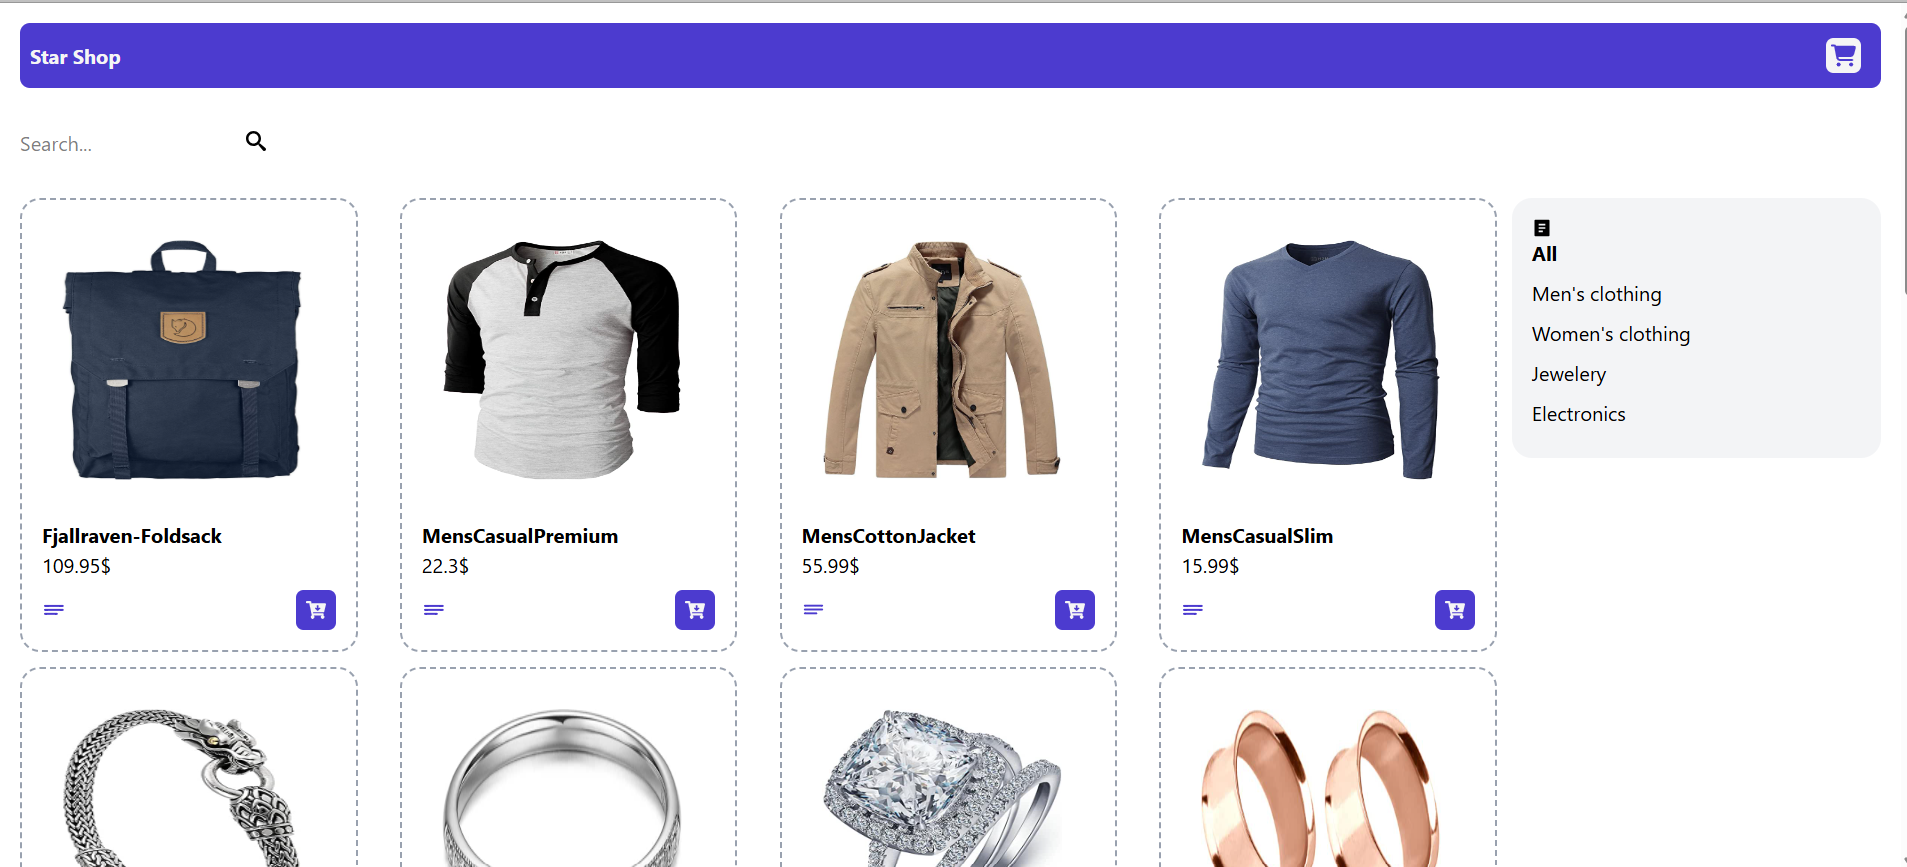
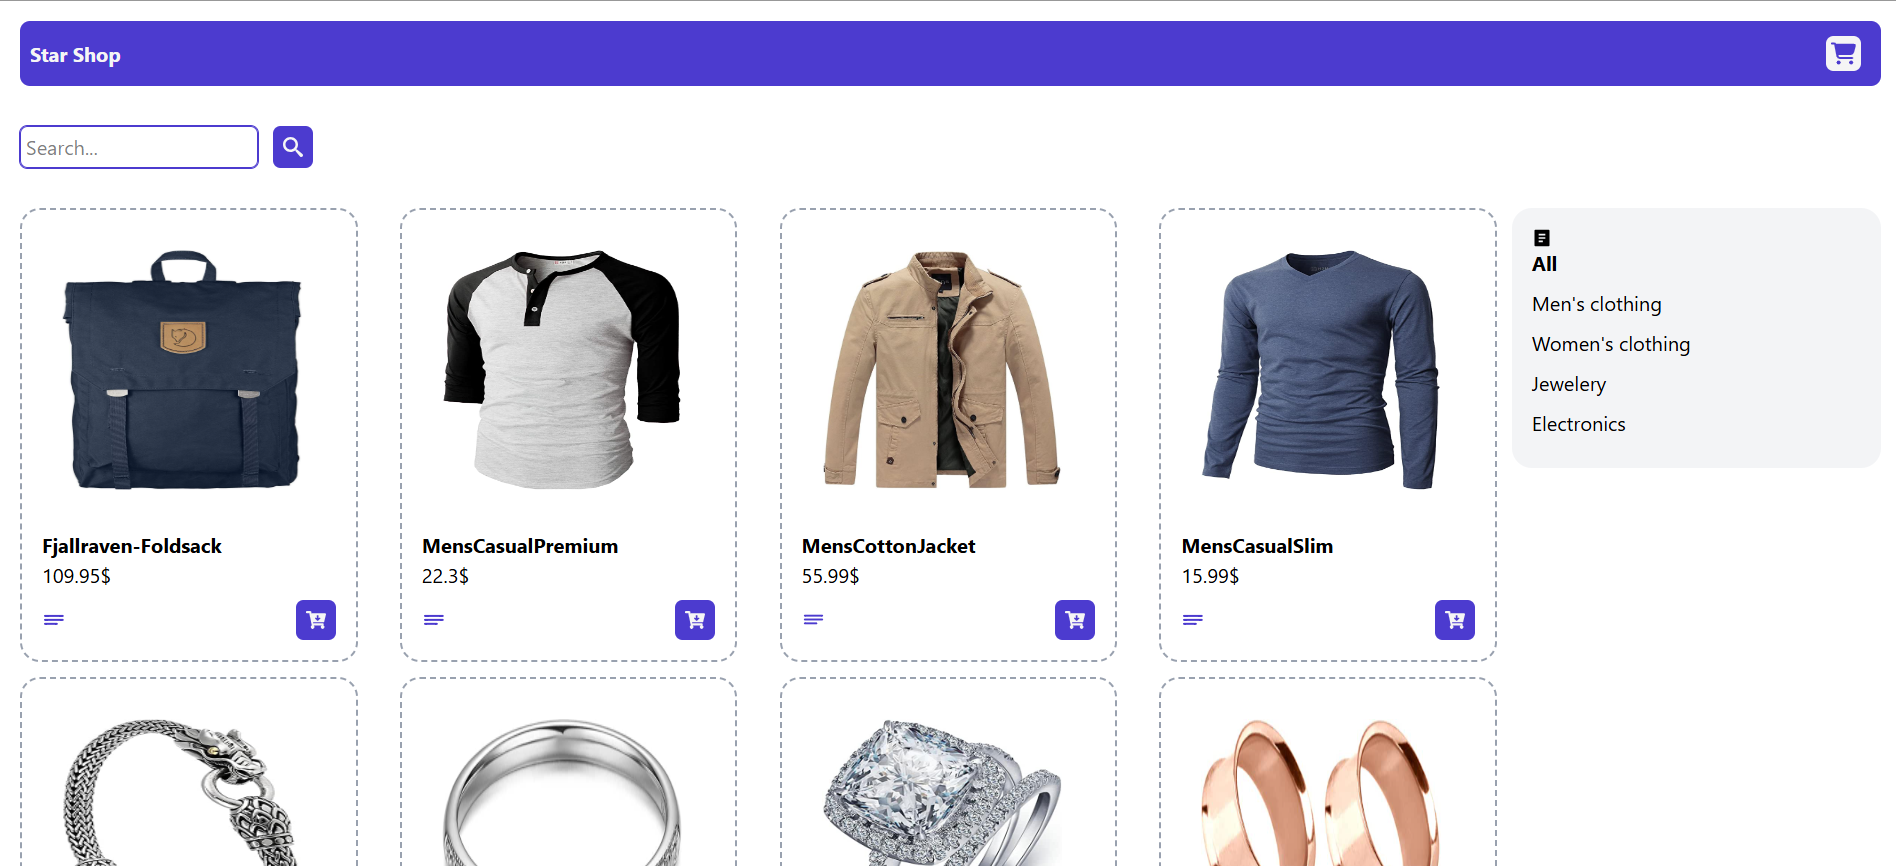
Enhance SearchBox component layout and styling for improved user experience

diff --git a/src/components/Templates/Products/SearchBox.jsx b/src/components/Templates/Products/SearchBox.jsx
@@ -14,17 +14,18 @@ function SearchBox({
   };
 
   return (
-    <div className="size-full p-4">
+    <div className="flex items-stretch size-full p-4">
       <input
         type="text"
         placeholder="Search..."
+        className="mr-3 p-1 rounded-md border border-primary outline outline-primary"
         value={placeholderSearch}
         onChange={(e) => {
           setSearch(e.target.value.toLowerCase().trim());
           setPlaceholderSearch(e.target.value);
         }}
       />
-      <button onClick={searchHandler}>
+      <button onClick={searchHandler} className="px-2 text-light rounded-md bg-primary transition-all cursor-pointer hover:bg-secondary">
         <ImSearch />
       </button>
     </div>
